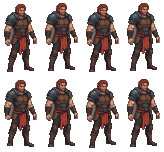
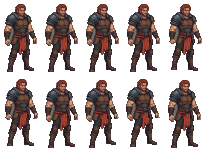
Static idle, and a six-beat walk with weight transfer
The idle was a four-frame breathing cycle and read as an odd little bounce --
the same failure the Warrior's original sheet had, where an idle cycle made him
rotate on the spot. At this size a character standing still should stand still,
so idle is now a single frame.

The walk goes from four beats to six: contact, lift, pass, twice. Four was
legible but stiff, because a foot went straight from planted to fully raised
with nothing in between.

Added the cue that was actually missing: the upper body now leans a pixel toward
the planted foot. Feet alternating without that reads as marching on the spot,
because the weight never transfers -- it is the difference between a figure
moving its legs and a figure walking.

Seam check re-run across all seven: zero enclosed holes added by any frame. The
baselines that remain are in the source art, where the Rogue's and Ranger's legs
are genuinely enclosed by their tunics.

diff --git a/src/gfx/spriteCatalog.js b/src/gfx/spriteCatalog.js
@@ -196,10 +196,16 @@ const HERO_SCALE = 1 / ACTOR_ZOOM;
 // sprite -- with the buffer supersampled 2x there is room for the extra detail,
 // and at 35px the characters read as four beige pixels where a face should be.
 //
-// Idle and walk are composed from each sprite's own pixels, moved. The legs
-// LIFT rather than splay: in a front view a stride travels toward and away from
-// the camera, so a sideways splay is not a step, and it opens a gap between the
-// legs that the torso encloses. Verified zero enclosed holes added by any frame.
+// Idle is a SINGLE static frame. A breathing cycle read as an odd little bounce
+// at this size -- the same failure the Warrior's original sheet had, where an
+// idle cycle made him rotate on the spot. A character standing still stands still.
+//
+// The walk is six beats -- contact, lift, pass, twice -- composed from each
+// sprite's own pixels. The legs LIFT rather than splay: in a front view a stride
+// travels toward and away from the camera, so a sideways splay is not a step,
+// and it opens a gap between the legs that the torso encloses. The upper body
+// also sways a pixel toward the planted foot, which is what separates walking
+// from marching on the spot. Verified zero enclosed holes added by any frame.
 //
 // HERO_WORLD_H is the height they occupy in logical units. 34 was the old size;
 // 1.35x reads as a person rather than a doll against the benches and wells.
@@ -207,91 +213,91 @@ const HERO_WORLD_H = 34 * 1.35;
 
 registerActorSprite('warrior', {
   sheet: 'assets/actors/hi/warrior.png',
-  frameWidth: 41, frameHeight: 76, columns: 4,
+  frameWidth: 41, frameHeight: 76, columns: 5,
   anchorX: 20, anchorY: 76,
   logicalHeight: 26,
   scale: (HERO_WORLD_H / 68) / ACTOR_ZOOM,
   shadowRadius: 8,
   animations: {
-    idle: { frames: [0, 1, 2, 3], fps: 4 },
-    walk: { frames: [4, 5, 6, 7], fps: 10 },
+    idle: { frames: [0], fps: 1 },
+    walk: { frames: [4, 5, 6, 7, 8, 9], fps: 12 },
   },
 });
 
 registerActorSprite('mage', {
   sheet: 'assets/actors/hi/mage.png',
-  frameWidth: 40, frameHeight: 76, columns: 4,
+  frameWidth: 40, frameHeight: 76, columns: 5,
   anchorX: 20, anchorY: 76,
   logicalHeight: 26,
   scale: (HERO_WORLD_H / 68) / ACTOR_ZOOM,
   shadowRadius: 8,
   animations: {
-    idle: { frames: [0, 1, 2, 3], fps: 4 },
-    walk: { frames: [4, 5, 6, 7], fps: 10 },
+    idle: { frames: [0], fps: 1 },
+    walk: { frames: [4, 5, 6, 7, 8, 9], fps: 12 },
   },
 });
 
 registerActorSprite('rogue', {
   sheet: 'assets/actors/hi/rogue.png',
-  frameWidth: 39, frameHeight: 76, columns: 4,
+  frameWidth: 39, frameHeight: 76, columns: 5,
   anchorX: 19, anchorY: 76,
   logicalHeight: 26,
   scale: (HERO_WORLD_H / 68) / ACTOR_ZOOM,
   shadowRadius: 8,
   animations: {
-    idle: { frames: [0, 1, 2, 3], fps: 4 },
-    walk: { frames: [4, 5, 6, 7], fps: 10 },
+    idle: { frames: [0], fps: 1 },
+    walk: { frames: [4, 5, 6, 7, 8, 9], fps: 12 },
   },
 });
 
 registerActorSprite('ranger', {
   sheet: 'assets/actors/hi/ranger.png',
-  frameWidth: 39, frameHeight: 76, columns: 4,
+  frameWidth: 39, frameHeight: 76, columns: 5,
   anchorX: 19, anchorY: 76,
   logicalHeight: 26,
   scale: (HERO_WORLD_H / 68) / ACTOR_ZOOM,
   shadowRadius: 8,
   animations: {
-    idle: { frames: [0, 1, 2, 3], fps: 4 },
-    walk: { frames: [4, 5, 6, 7], fps: 10 },
+    idle: { frames: [0], fps: 1 },
+    walk: { frames: [4, 5, 6, 7, 8, 9], fps: 12 },
   },
 });
 
 registerActorSprite('paladin', {
   sheet: 'assets/actors/hi/paladin.png',
-  frameWidth: 41, frameHeight: 76, columns: 4,
+  frameWidth: 41, frameHeight: 76, columns: 5,
   anchorX: 20, anchorY: 76,
   logicalHeight: 26,
   scale: (HERO_WORLD_H / 68) / ACTOR_ZOOM,
   shadowRadius: 8,
   animations: {
-    idle: { frames: [0, 1, 2, 3], fps: 4 },
-    walk: { frames: [4, 5, 6, 7], fps: 10 },
+    idle: { frames: [0], fps: 1 },
+    walk: { frames: [4, 5, 6, 7, 8, 9], fps: 12 },
   },
 });
 
 registerActorSprite('berserker', {
   sheet: 'assets/actors/hi/berserker.png',
-  frameWidth: 41, frameHeight: 76, columns: 4,
+  frameWidth: 41, frameHeight: 76, columns: 5,
   anchorX: 20, anchorY: 76,
   logicalHeight: 26,
   scale: (HERO_WORLD_H / 68) / ACTOR_ZOOM,
   shadowRadius: 8,
   animations: {
-    idle: { frames: [0, 1, 2, 3], fps: 4 },
-    walk: { frames: [4, 5, 6, 7], fps: 10 },
+    idle: { frames: [0], fps: 1 },
+    walk: { frames: [4, 5, 6, 7, 8, 9], fps: 12 },
   },
 });
 
 registerActorSprite('summoner', {
   sheet: 'assets/actors/hi/summoner.png',
-  frameWidth: 40, frameHeight: 76, columns: 4,
+  frameWidth: 40, frameHeight: 76, columns: 5,
   anchorX: 20, anchorY: 76,
   logicalHeight: 26,
   scale: (HERO_WORLD_H / 68) / ACTOR_ZOOM,
   shadowRadius: 8,
   animations: {
-    idle: { frames: [0, 1, 2, 3], fps: 4 },
-    walk: { frames: [4, 5, 6, 7], fps: 10 },
+    idle: { frames: [0], fps: 1 },
+    walk: { frames: [4, 5, 6, 7, 8, 9], fps: 12 },
   },
 });

diff --git a/src/scenes/combat.js b/src/scenes/combat.js
@@ -1667,6 +1667,15 @@ export class CombatScene {
     if (!img || !img.complete || !img.naturalWidth) return false;
     const x = Math.round(e.x - img.naturalWidth / 2);
     const y = Math.round(e.depth - (e.z || 0) - img.naturalHeight);
+    // He has to be able to turn. The art faces one way; `facing` mirrors it,
+    // which is also what lets him sit facing DOWN the hall rather than staring
+    // out of the screen — a throne faces its own room.
+    const flip = e.facing > 0;
+    if (flip) {
+      g.save();
+      g.translate(Math.round(e.x) * 2, 0);
+      g.scale(-1, 1);
+    }
     if (e.flash > 0) {                       // hit flash, without tinting the art
       g.drawImage(img, x, y);
       g.globalAlpha = Math.min(0.7, e.flash);
@@ -1674,11 +1683,12 @@ export class CombatScene {
       g.drawImage(img, x, y);
       g.globalCompositeOperation = 'source-over';
       g.globalAlpha = 1;
-      return true;
+    } else {
+      g.globalAlpha = e.alpha ?? 1;
+      g.drawImage(img, x, y);
+      g.globalAlpha = 1;
     }
-    g.globalAlpha = e.alpha ?? 1;
-    g.drawImage(img, x, y);
-    g.globalAlpha = 1;
+    if (flip) g.restore();
     return true;
   }
 
